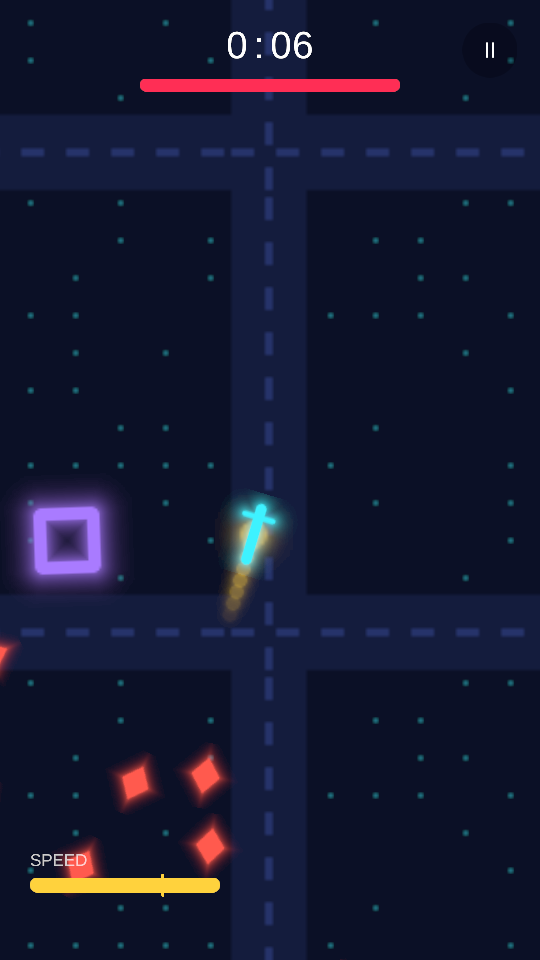
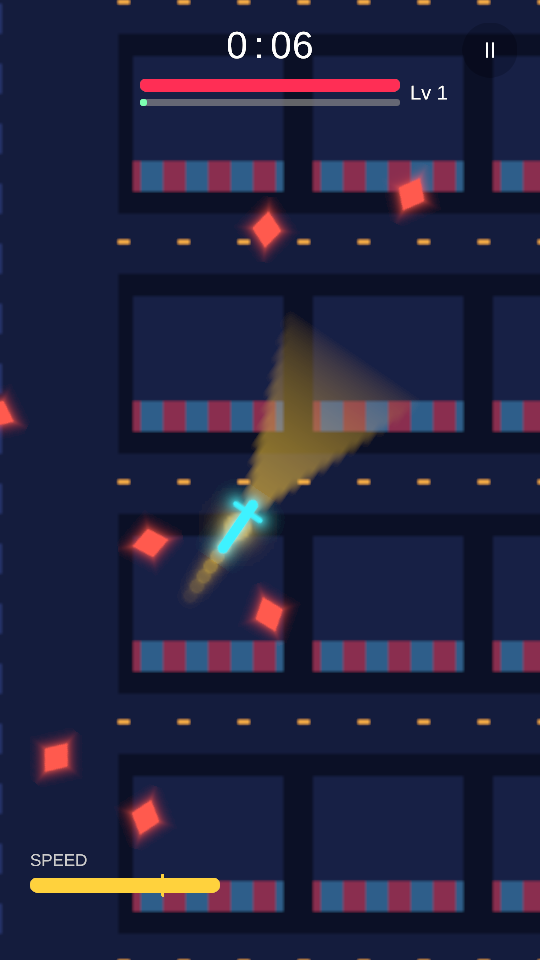
Map 1, Market Street: avenue, stalls under striped awnings, lantern strings
The ride's ground is now a 16 x 16 unit Market Street tile drawn at startup
(a 4-unit avenue, four stalls per block with alternating awnings, warm
lanterns down the side streets), tiled under the camera. Sized so the stall
rows and lantern spacing repeat exactly across tile edges. The placeholder
city block is removed. Still procedural rather than a Unity Tilemap: one
SpriteRenderer, no art files.

Smoke test passes; README screenshot updated.

diff --git a/Assets/_Game/Scripts/Runtime/Art/NeonArt.cs b/Assets/_Game/Scripts/Runtime/Art/NeonArt.cs
@@ -9,7 +9,6 @@ namespace NightCourier.Art
         public static readonly Color Night = Hex(0x0B1026);
         public static readonly Color Road = Hex(0x141C3D);
         public static readonly Color RoadLine = Hex(0x26336A);
-        public static readonly Color Window = Hex(0x3EF2FF, 0.55f);
         public static readonly Color Bike = Hex(0x3EF2FF);
         public static readonly Color Bonus = Hex(0xFFD23E);
         public static readonly Color Scout = Hex(0xFF5A4E);
@@ -32,7 +31,6 @@ namespace NightCourier.Art
         private static Sprite _scout;
         private static Sprite _hauler;
         private static Sprite _dot;
-        private static Sprite _ground;
 
         /// <summary>The bike seen from above, pointing right: about 1 unit long.</summary>
         public static Sprite Bike => _bike != null ? _bike : (_bike = Shape(64, 1.4f, (x, y) =>
@@ -49,11 +47,57 @@ namespace NightCourier.Art
         /// <summary>Soft round glow, 1 unit across.</summary>
         public static Sprite Dot => _dot != null ? _dot : (_dot = Shape(32, 1f, (x, y) => Mathf.Sqrt(x * x + y * y) - 0.25f));
 
+
         /// <summary>
-        /// One 8 × 8 unit city block: dark lots, lighter roads with lane marks, a few lit windows. Tiles seamlessly;
-        /// use it with <see cref="SpriteDrawMode.Tiled"/>.
+        /// Map 1, Market Street: one 16 × 16 unit tile with a 4-unit avenue, rows of stalls under striped awnings
+        /// and strings of warm lanterns across the side streets. Tiles seamlessly; use it with Tiled draw mode.
         /// </summary>
-        public static Sprite Ground => _ground != null ? _ground : (_ground = DrawGround());
+        public static Sprite MarketStreet => _market != null ? _market : (_market = DrawMarketStreet());
+
+        private static Sprite _market;
+
+        private static Sprite DrawMarketStreet()
+        {
+            const int size = 256; // 16 pixels per unit
+            var pixels = new Color32[size * size];
+            Color awningA = Palette.Hex(0x8A2E4F), awningB = Palette.Hex(0x2E5E8A), lantern = Palette.Hex(0xFFB347);
+            for (int y = 0; y < size; y++)
+            {
+                for (int x = 0; x < size; x++)
+                {
+                    bool avenue = x < 64;                 // 4-unit avenue running north-south
+                    bool street = y % 64 < 16;            // 1-unit side street every 4 units
+                    Color c = avenue || street ? Palette.Road : Palette.Night;
+                    if (avenue && (x == 31 || x == 32) && (y / 8) % 2 == 0)
+                    {
+                        c = Palette.RoadLine; // centre line
+                    }
+                    else if (!avenue && !street)
+                    {
+                        // Stalls: 3 × 2 unit blocks with a striped awning along the street edge.
+                        int sx = (x - 64) % 48, sy = y % 64 - 16; // 4 stalls fill the 192 px beside the avenue
+                        bool stall = sx >= 4 && sx < 44 && sy >= 6 && sy < 42;
+                        bool awning = stall && sy < 14;
+                        if (awning)
+                        {
+                            c = ((x - 64) / 6) % 2 == 0 ? awningA : awningB;
+                        }
+                        else if (stall)
+                        {
+                            c = Color.Lerp(Palette.Night, Palette.RoadLine, 0.45f);
+                        }
+                    }
+                    else if (street && !avenue && (y % 64 == 8) && x % 16 < 3)
+                    {
+                        c = lantern; // a string of lanterns down the middle of the side street
+                    }
+
+                    pixels[y * size + x] = c;
+                }
+            }
+
+            return Make(pixels, size, size, 16f, TextureWrapMode.Repeat);
+        }
 
         /// <summary>Thin glowing ring, 2 units across (radius 1): scale it to a radius.</summary>
         public static Sprite Ring => _ring != null ? _ring : (_ring = Shape(64, 2.3f, (x, y) => Mathf.Abs(Mathf.Sqrt(x * x + y * y) - 0.87f) - 0.025f));
@@ -109,34 +153,6 @@ namespace NightCourier.Art
             }
 
             return Make(pixels, size, size, size / units, TextureWrapMode.Clamp);
-        }
-
-        private static Sprite DrawGround()
-        {
-            const int size = 128; // 16 pixels per unit
-            var pixels = new Color32[size * size];
-            var rng = new System.Random(7);
-            for (int y = 0; y < size; y++)
-            {
-                for (int x = 0; x < size; x++)
-                {
-                    bool road = x < 20 || y < 20;
-                    bool lane = (x == 9 || x == 10) && (y / 6) % 2 == 0 || (y == 9 || y == 10) && (x / 6) % 2 == 0;
-                    Color c = road ? Palette.Road : Palette.Night;
-                    if (lane)
-                    {
-                        c = Palette.RoadLine;
-                    }
-                    else if (!road && x % 12 == 2 && y % 10 == 4 && rng.NextDouble() < 0.35)
-                    {
-                        c = Color.Lerp(Palette.Night, Palette.Window, 0.5f);
-                    }
-
-                    pixels[y * size + x] = c;
-                }
-            }
-
-            return Make(pixels, size, size, 16f, TextureWrapMode.Repeat);
         }
 
         private static Sprite Make(Color32[] pixels, int w, int h, float pixelsPerUnit, TextureWrapMode wrap, Vector2? pivot = null)

diff --git a/Assets/_Game/Scripts/Runtime/RideController.cs b/Assets/_Game/Scripts/Runtime/RideController.cs
@@ -25,7 +25,7 @@ namespace NightCourier
         private const float StepSeconds = 1f / 120f;
         private const float LookAheadSeconds = 0.45f;
         private const float CameraSmoothing = 0.3f;
-        private const float GroundTile = 8f;
+        private const float GroundTile = 16f;
 
         private static readonly int[] StressCounts = { 0, 100, 300, 500 };
         private static readonly string[] StressLabels = { "Normal ride", "Stress 100", "Stress 300", "Stress 500" };
@@ -96,9 +96,9 @@ namespace NightCourier
             var world = new GameObject("World").transform;
             var ground = new GameObject("Ground").AddComponent<SpriteRenderer>();
             ground.transform.SetParent(world, false);
-            ground.sprite = NeonArt.Ground;
+            ground.sprite = NeonArt.MarketStreet; // map 1
             ground.drawMode = SpriteDrawMode.Tiled;
-            ground.size = new Vector2(GroundTile * 6f, GroundTile * 6f);
+            ground.size = new Vector2(GroundTile * 3f, GroundTile * 3f);
             ground.sortingOrder = -10;
             _ground = ground.transform;
             _swarmView = new SwarmView(world);

diff --git a/README.md b/README.md
@@ -11,7 +11,7 @@ fixed-gear bike, has to ride until dawn.
 > screenshots below come from that test.
 
 <p>
-  <img src="docs/screenshots/riding.png" width="270" alt="The cyan bike rides through a dark neon city block at full speed, with a gold trail; red diamond drones and a purple square hauler close in">
+  <img src="docs/screenshots/riding.png" width="270" alt="The cyan bike rides through Market Street at full speed, headlight on, past stalls with striped awnings and lantern strings; red diamond drones close in">
   <img src="docs/screenshots/stress-300.png" width="270" alt="Stress ride: 300 drones circle the bike">
   <img src="docs/screenshots/level-up.png" width="270" alt="Level up: three cards, Headlight level 1 to 2, Gear Ratio new, Bell new">
 </p>
